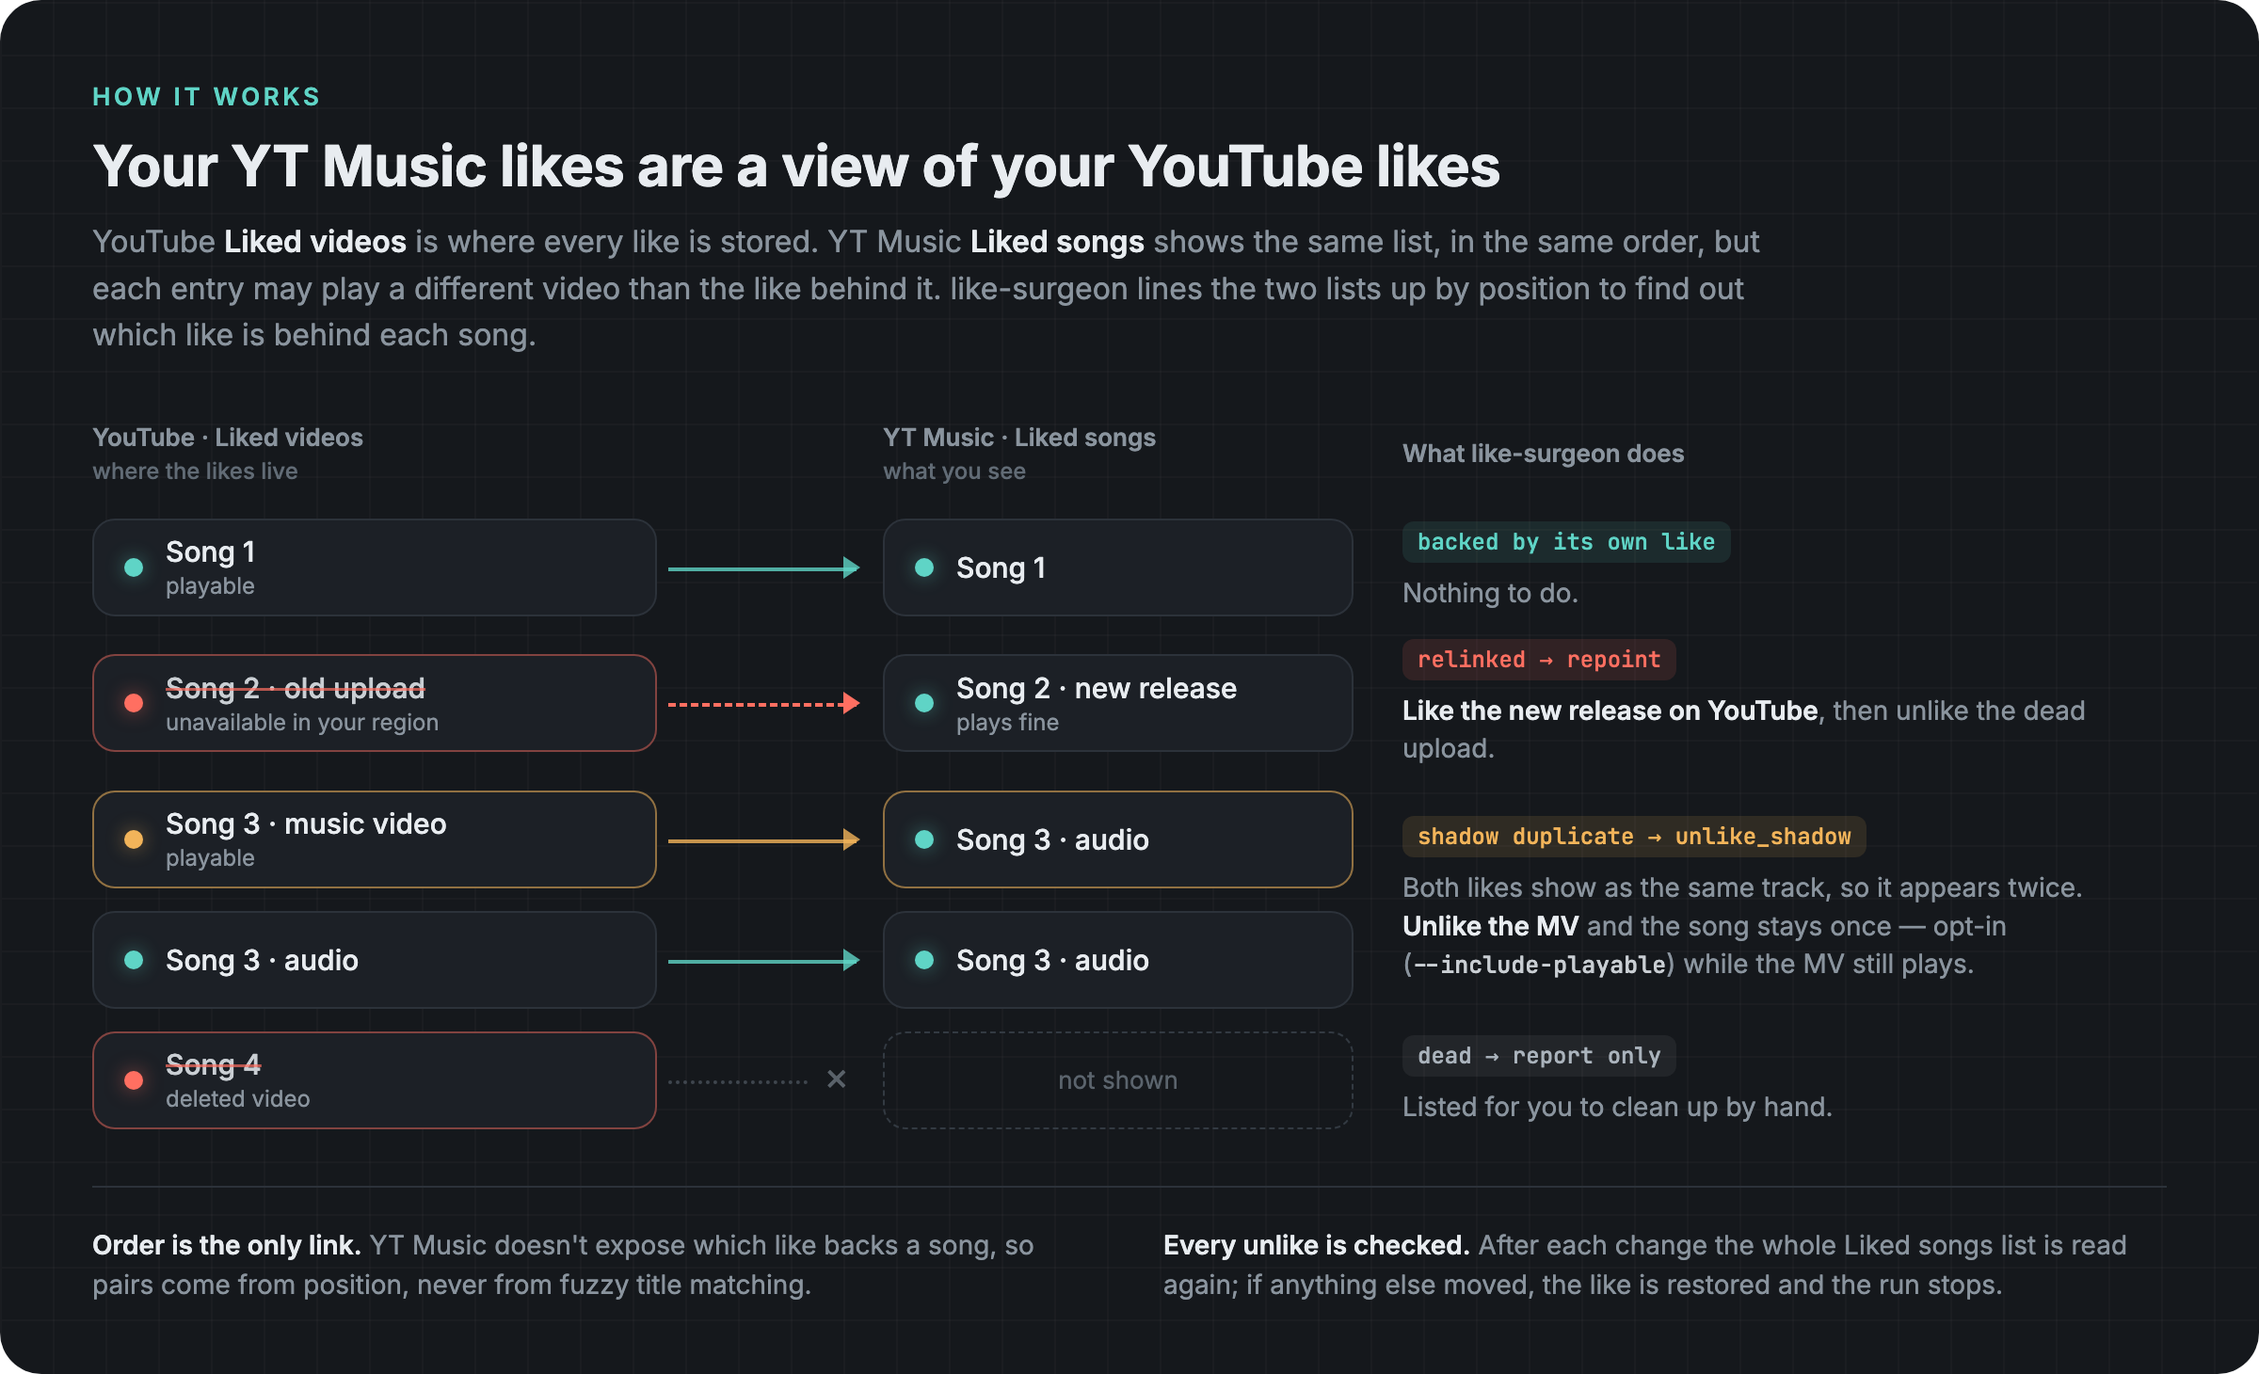
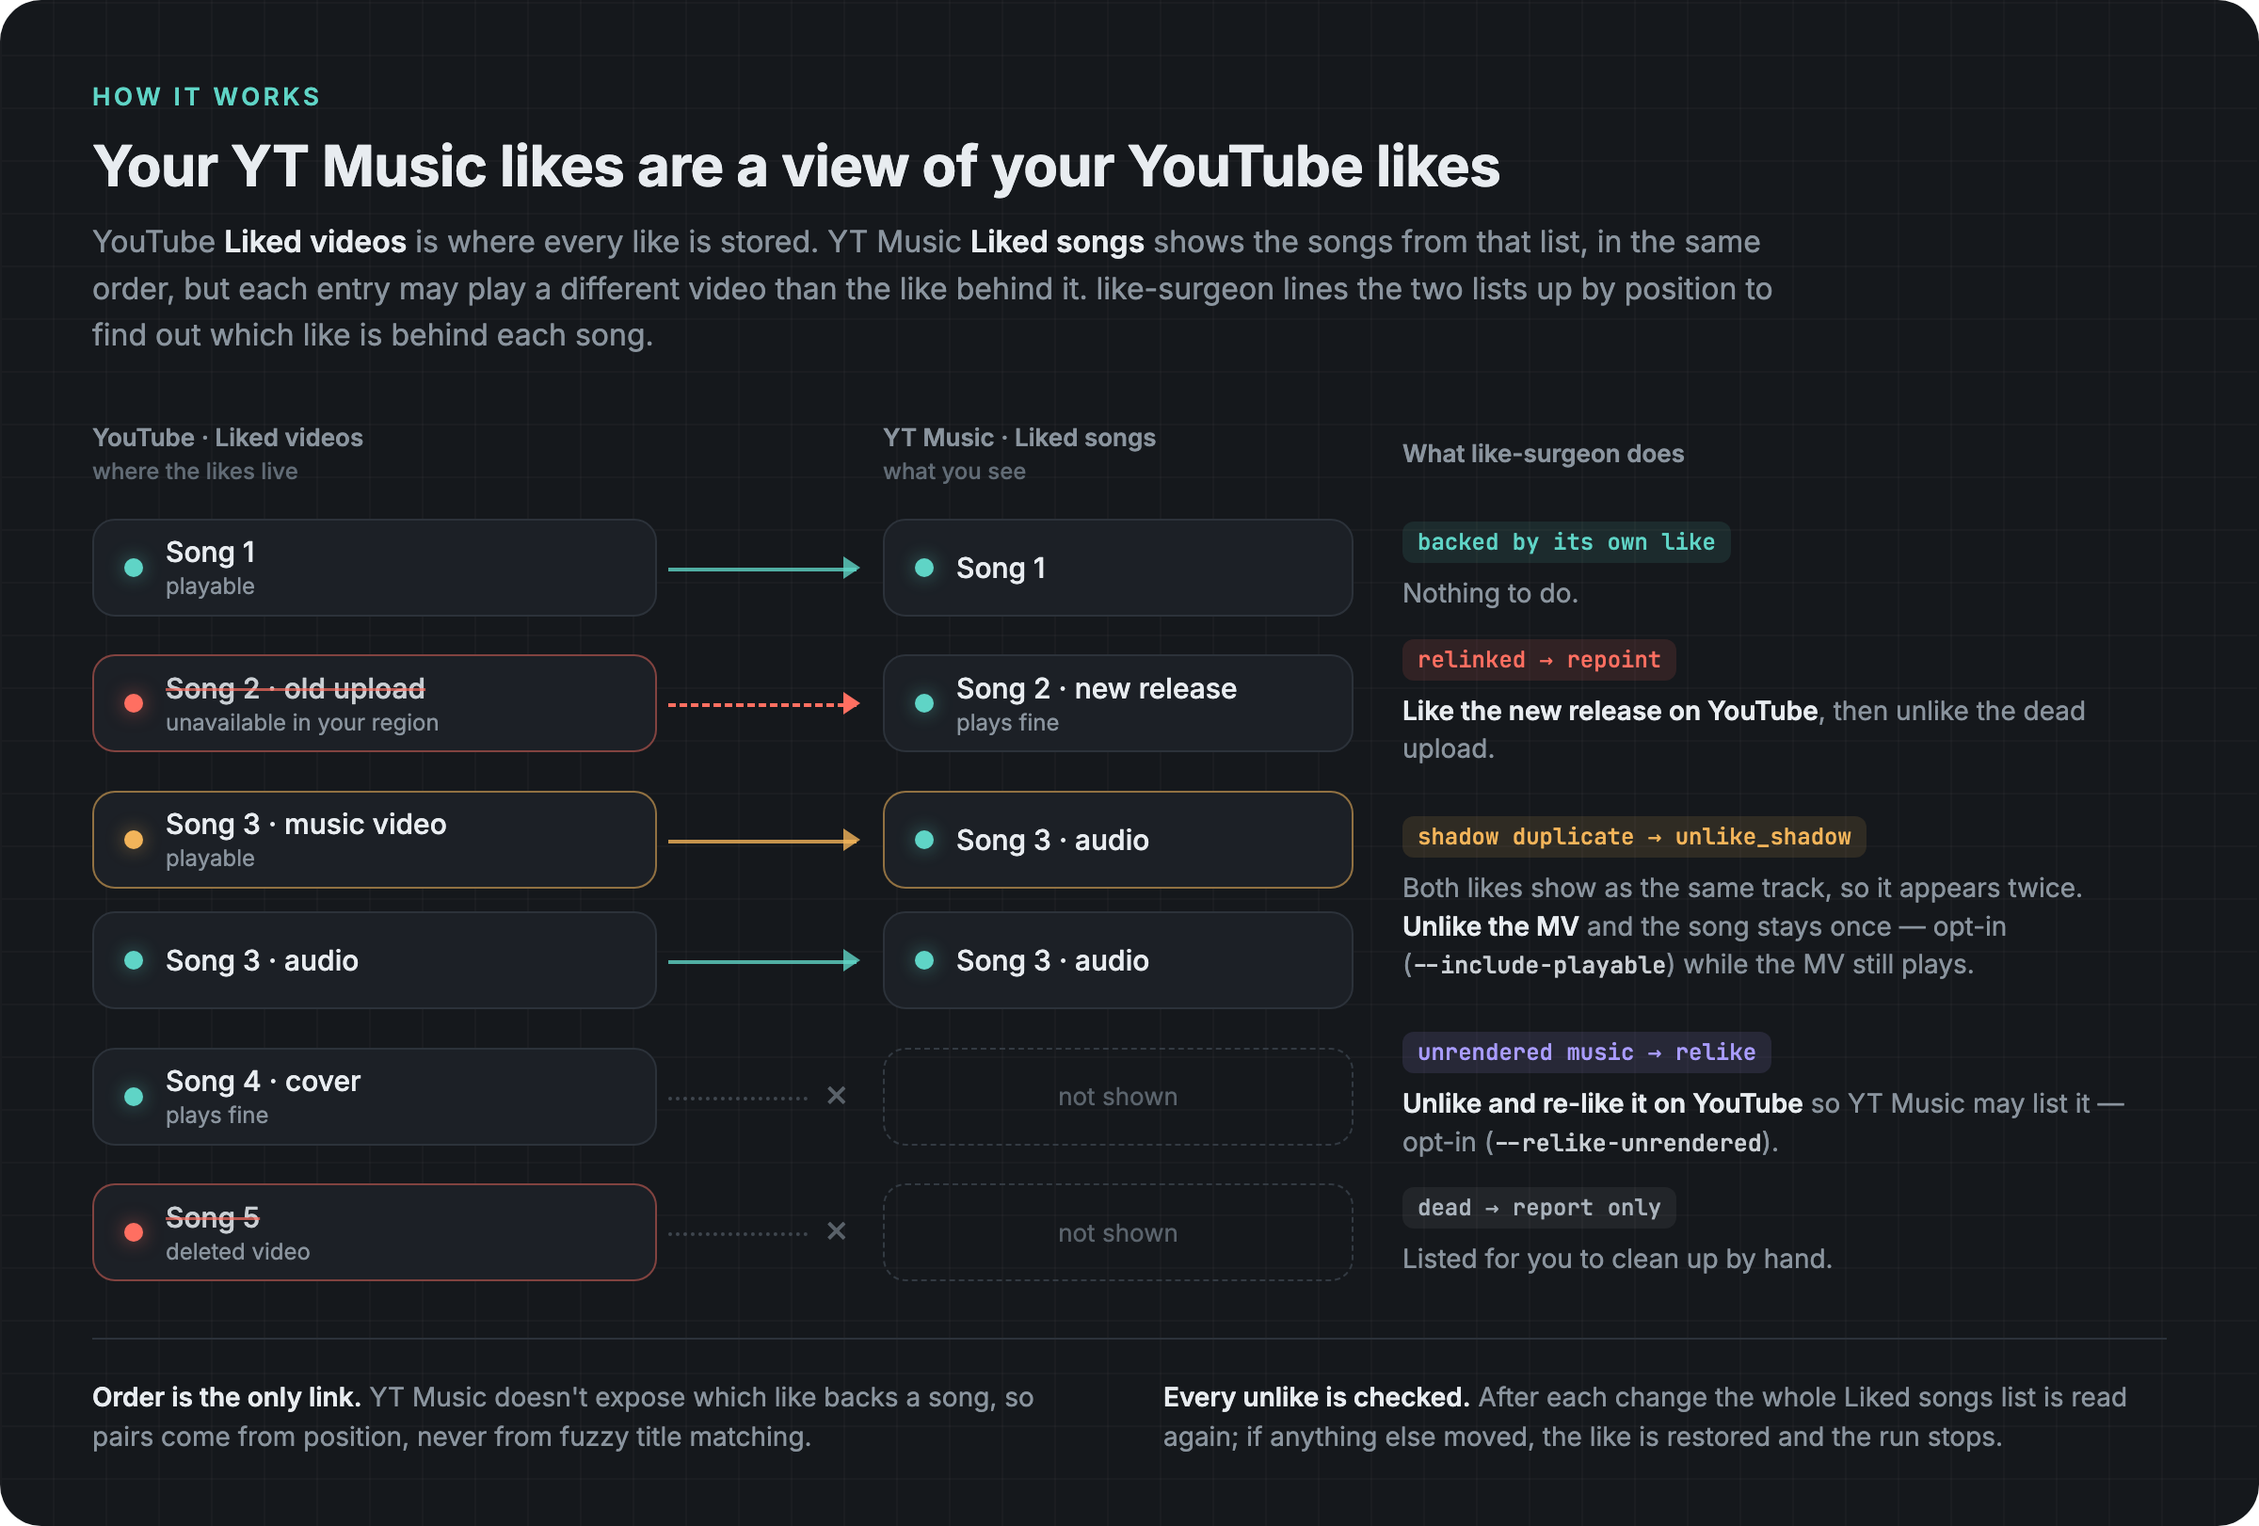
docs: lead with fixing YouTube / YT Music like mismatches
README opens with the mismatch the tool fixes; the Why section folds into
the intro and backup moves to a side note, so the How it works diagram
sits right under it. The diagram gains the opt-in relike row, the hero and
pyproject description match the new tagline, Safety notes relike as the
one non-pair write, and Back up and inspect moves after Sync. ARCHITECTURE:
the itemCount lookup costs 1 unit, not 2.

diff --git a/docs/assets/src/how-it-works.html b/docs/assets/src/how-it-works.html
@@ -61,6 +61,7 @@
   .tag.ok { color: var(--teal); background: rgba(95,212,198,.1); }
   .tag.fix { color: var(--coral); background: rgba(255,111,97,.12); }
   .tag.dup { color: var(--amber); background: rgba(242,180,90,.12); }
+  .tag.re { color: #a99cff; background: rgba(169,156,255,.12); }
   .tag.rep { color: #aab3bc; background: rgba(255,255,255,.06); }
   .note b { color: var(--text); font-weight: 600; }
   .note code { font: 500 12.5px "JetBrains Mono", ui-monospace, monospace; color: #c9ced3; white-space: nowrap; }
@@ -75,7 +76,7 @@
 <div class="card" id="card">
   <div class="eyebrow">How it works</div>
   <h1>Your YT Music likes are a view of your YouTube likes</h1>
-  <p class="lede">YouTube <b>Liked videos</b> is where every like is stored. YT Music <b>Liked songs</b> shows the same list, in the same order, but each entry may play a different video than the like behind it. like-surgeon lines the two lists up by position to find out which like is behind each song.</p>
+  <p class="lede">YouTube <b>Liked videos</b> is where every like is stored. YT Music <b>Liked songs</b> shows the songs from that list, in the same order, but each entry may play a different video than the like behind it. like-surgeon lines the two lists up by position to find out which like is behind each song.</p>
 
   <div class="grid">
     <div class="colhead">YouTube · Liked videos<span>where the likes live</span></div>
@@ -102,7 +103,12 @@
     <div class="wire"></div>
     <div class="item"><i class="dot"></i><div class="t">Song 3 · audio</div></div>
 
-    <div class="item dead"><i class="dot dead"></i><div><div class="t">Song 4</div><small>deleted video</small></div></div>
+    <div class="item"><i class="dot"></i><div class="t">Song 4 · cover<small>plays fine</small></div></div>
+    <div class="wire none"></div>
+    <div class="empty">not shown</div>
+    <div class="note"><span class="tag re">unrendered music → relike</span><br><b>Unlike and re-like it on YouTube</b> so YT Music may list it — opt-in (<code>--relike-unrendered</code>).</div>
+
+    <div class="item dead"><i class="dot dead"></i><div><div class="t">Song 5</div><small>deleted video</small></div></div>
     <div class="wire none"></div>
     <div class="empty">not shown</div>
     <div class="note"><span class="tag rep">dead → report only</span><br>Listed for you to clean up by hand.</div>

diff --git a/docs/assets/src/hero.html b/docs/assets/src/hero.html
@@ -34,9 +34,9 @@
 <body>
 <div class="hero">
   <div class="copy">
-    <div class="eyebrow">YouTube Music · liked songs</div>
+    <div class="eyebrow">YouTube Music ↔ YouTube likes</div>
     <h1><span class="like">like</span>-surgeon</h1>
-    <p class="tagline">Back up your liked songs, find <b>relinked</b>, <b>duplicate</b> and <b>dead</b> likes, and fix the ones it can prove.</p>
+    <p class="tagline">Fix the <b>mismatches</b> between your YouTube Music liked songs and YouTube likes — only the ones it can prove.</p>
     <div class="install"><span>$</span> uv tool install likesurgeon</div>
   </div>
 </div>

diff --git a/README.md b/README.md
@@ -1,5 +1,5 @@
 <p align="center">
-  <img src="https://raw.githubusercontent.com/zeikar/like-surgeon/main/docs/assets/hero.jpg" alt="like-surgeon: back up your YouTube Music liked songs, find relinked, duplicate and dead likes, and fix the ones it can prove" width="100%">
+  <img src="https://raw.githubusercontent.com/zeikar/like-surgeon/main/docs/assets/hero.jpg" alt="like-surgeon: fix the mismatches between your YouTube Music liked songs and YouTube likes, only the ones it can prove" width="100%">
 </p>
 
 <p align="center">
@@ -11,26 +11,19 @@
 
 # like-surgeon
 
-**Back up your YouTube Music liked songs, find relinked, duplicate and dead likes, and fix the ones it can prove.**
+**Fix the mismatches between your YouTube Music liked songs and YouTube likes — only the ones it can prove.**
 
-like-surgeon is a local-first command-line tool. It snapshots your YouTube Music *Liked songs* and your YouTube *Liked videos* into a SQLite file on your machine, works out which YouTube like is behind every song, and repairs the cases it can prove — with a check after every change. No server, no account of ours: your data and credentials stay on your computer.
+YouTube Music keeps no likes of its own: *Liked songs* is a view of your YouTube *Liked videos*, and over the years the two drift apart. A song gets swapped for another release while your like stays on the dead upload, the same song shows up twice, music you liked never appears, or a like is left on a deleted video. like-surgeon lines the two lists up, works out which YouTube like is behind every song, and fixes the mismatches it can prove — on YouTube, with a check after every change.
 
-## Why
-
-Use YouTube Music for a few years and your Liked songs drifts:
-
-- **Songs YT Music swapped behind your back.** The upload you liked was pulled or blocked in your region, so YT Music now plays a different release of the song — but your YouTube likes still hold the old, dead video.
-- **The same song twice.** You liked the official music video *and* the audio track; YT Music shows both as the same track.
-- **Songs that are just gone.** A deleted or region-blocked video stays in your likes, invisible in YT Music.
-- **No backup.** YouTube Music has no in-app export for your likes, and titles change over time.
+It's a command-line tool that runs on your machine. Each scan of both lists is kept as a snapshot in a local SQLite file, which doubles as the backup YouTube Music doesn't offer. No server, no account of ours: your data and credentials stay on your computer.
 
 ## How it works
 
 <p align="center">
-  <img src="https://raw.githubusercontent.com/zeikar/like-surgeon/main/docs/assets/how-it-works.png" alt="Diagram: YouTube Liked videos on the left, YT Music Liked songs on the right, lined up by position. A dead upload shown as a new release is re-pointed, a music video shown as a duplicate audio track can be unliked (opt-in while it still plays), and a deleted video is reported." width="100%">
+  <img src="https://raw.githubusercontent.com/zeikar/like-surgeon/main/docs/assets/how-it-works.png" alt="Diagram: YouTube Liked videos on the left, YT Music Liked songs on the right, lined up by position. A dead upload shown as a new release is re-pointed, a music video shown as a duplicate audio track can be unliked (opt-in while it still plays), a cover YT Music doesn't show can be re-liked (opt-in), and a deleted video is reported." width="100%">
 </p>
 
-Your YouTube **Liked videos** list is the only place likes are stored. YT Music **Liked songs** is a view of it — same order, filtered to what YT Music shows, and each entry may play a different video than the like behind it. YT Music never says which like backs which song, so like-surgeon lines the two lists up by position (no fuzzy title matching) and repairs the mismatches it can prove, on YouTube. The full model and the evidence for it: [docs/design/ll-lm-alignment.md](https://github.com/zeikar/like-surgeon/blob/main/docs/design/ll-lm-alignment.md). (The docs call the two lists **LL** and **LM**, after their playlist ids.)
+Liked songs keeps the order of Liked videos, filtered to what YT Music shows, and each entry may play a different video than the like behind it. YT Music never says which like backs which song, so like-surgeon lines the two lists up by position (no fuzzy title matching) and repairs the mismatches it can prove, on YouTube. The full model and the evidence for it: [docs/design/ll-lm-alignment.md](https://github.com/zeikar/like-surgeon/blob/main/docs/design/ll-lm-alignment.md). (The docs call the two lists **LL** and **LM**, after their playlist ids.)
 
 ## Quick start
 
@@ -70,7 +63,7 @@ Just want a backup? `auth ytmusic`, `scan ytmusic` and `export` are enough — n
 ## Safety
 
 - **Read-only until you say so.** Only `sync` writes, after showing the plan and a y/N prompt; `--dry-run` writes nothing, `--limit N` ramps up, `skip <id>` keeps a finding out for good.
-- **Only proven pairs.** A pair is acted on only when its gap in the alignment is one-to-one and A's availability is known; repoints also need the same recording (duration within ±3 s and same channel or overlapping titles).
+- **Only proven pairs.** A pair is acted on only when its gap in the alignment is one-to-one and A's availability is known; repoints also need the same recording (duration within ±3 s and same channel or overlapping titles). The one exception is opt-in: `--relike-unrendered` re-likes a single video that looks like music but isn't shown in YT Music, then checks that Liked songs gained at most that one entry.
 - **Every unlike is checked.** After each change `sync` confirms the rating and re-reads your whole Liked songs list. If anything else moved, A is re-liked and the run stops.
 - **Writes only on YouTube.** YT Music's own like button is never pressed: it shares the same rating, and pressing it duplicates or reverts entries.
 - **Local credentials.** Cookies and OAuth tokens stay in `~/.like-surgeon/`; the files the tool writes are owner-only (`0600`) on macOS and Linux.
@@ -132,18 +125,7 @@ Scans always fetch the full list; aligning a truncated list would be meaningless
 
 > **Cookie staleness.** YT Music cookies extracted from Chrome can go stale within about an hour. If `scan ytmusic` reports a logged-out response, re-run `auth ytmusic --from-browser chrome` and scan again right away.
 
-### 4. Inspect and back up
-
-```bash
-likesurgeon snapshots
-likesurgeon diff <old_snapshot_id> <new_snapshot_id>
-likesurgeon export <snapshot_id> --format json --output likes.json
-likesurgeon doctor
-```
-
-`doctor` summarizes both sources: counts, the latest diagnosis, and how many YT Music songs are traced to the like behind them.
-
-### 5. Compare
+### 4. Compare
 
 ```bash
 likesurgeon compare-likes
@@ -160,7 +142,7 @@ A pair (A shown as B) is **write-eligible** only at confidence 1.0: A's availabi
 
 `dead_unrendered` findings are yours to clean up by hand. A region block can lift, so unlike a blocked video only once you have liked a replacement. A **deleted** video can't be unliked through the YouTube Data API (`videos.rate` returns 404), but YT Music's rating call still removes the like — ytmusicapi `rate_song(videoId, "INDIFFERENT")`; check with `videos.getRating`, which still reads deleted videos. The video isn't shown in YT Music, so no other entry depends on it.
 
-### 6. Sync (write actions)
+### 5. Sync (write actions)
 
 `sync` applies the latest diagnosis's write-eligible findings, on YouTube only. It prints the plan and a quota estimate, warns if the diagnosis looks stale (a newer scan exists, or a scan it used is over an hour old), names any video an earlier run may have left unliked, then asks before writing.
 
@@ -212,6 +194,17 @@ Sync stops early when:
 - YouTube's daily quota runs out.
 
 The run exits non-zero if any action failed or it stopped early on an unreadable Liked songs list, after a restore, after an unconfirmed B undo, or after a `relike` went wrong.
+
+### 6. Back up and inspect
+
+```bash
+likesurgeon snapshots
+likesurgeon diff <old_snapshot_id> <new_snapshot_id>
+likesurgeon export <snapshot_id> --format json --output likes.json
+likesurgeon doctor
+```
+
+`doctor` summarizes both sources: counts, the latest diagnosis, and how many YT Music songs are traced to the like behind them.
 
 ## Caveats
 

diff --git a/docs/ARCHITECTURE.md b/docs/ARCHITECTURE.md
@@ -34,7 +34,7 @@ Two providers feed into one local SQLite database. Every snapshot is point-in-ti
 ## Data flow
 
 1. **Auth** — `auth ytmusic` writes `browser.json` from a logged-in browser cookie store. `auth youtube` runs the OAuth Desktop-app consent flow and persists `youtube-token.json`.
-2. **Scan** — `scan ytmusic` / `scan youtube-likes` fetch the user's likes, translate provider dicts via per-source translators in [src/likesurgeon/snapshot.py](../src/likesurgeon/snapshot.py), upsert `Track` rows (deduplicated by `(source, dedupe_key)`), and write a fresh `Snapshot` plus N `SnapshotItem` rows. Each snapshot is independent — old ones are never mutated. `scan youtube-likes` then calls `YouTubeClient.fetch_likes_item_count()` (2 quota units) and warns when the playlist's `itemCount` exceeds the items scanned ([notes/hidden-likes.md](notes/hidden-likes.md)); a failed lookup only warns.
+2. **Scan** — `scan ytmusic` / `scan youtube-likes` fetch the user's likes, translate provider dicts via per-source translators in [src/likesurgeon/snapshot.py](../src/likesurgeon/snapshot.py), upsert `Track` rows (deduplicated by `(source, dedupe_key)`), and write a fresh `Snapshot` plus N `SnapshotItem` rows. Each snapshot is independent — old ones are never mutated. `scan youtube-likes` then calls `YouTubeClient.fetch_likes_item_count()` (1 quota unit: the playlist id resolved for the scan is reused) and warns when the playlist's `itemCount` exceeds the items scanned ([notes/hidden-likes.md](notes/hidden-likes.md)); a failed lookup only warns.
 3. **Compare** — `compare-likes` loads the latest snapshot from each source, aligns them ([`align.py`](../src/likesurgeon/align.py): LIS anchors on LM entries whose `videoId` is in LL, then in-order pairing of the gaps), fetches `videos.list` metadata for the pairs for the same-recording check, and persists the run as a `Diagnosis` plus per-finding `DiagnosisItem` rows ([`pipeline.py`](../src/likesurgeon/pipeline.py)). It also warns when one of our own `sync` attempts ran after the older scan, and carries `'skipped'` statuses forward.
 4. **Inspect** — `issues`, `doctor`, `diff`, and `export` all read from local DB only. No outbound network.
 5. **Sync** — `sync` refuses if a sync attempt happened after the older scan, plans actions from the latest diagnosis (pure `sync.plan`; read-only `sync_preflight` checks), then `sync_dispatch.execute` writes to YouTube (repoint / unlike_shadow, and with `--relike-unrendered` `relike`: unlike and re-like an unrendered A, oldest first), reads the whole LM after each unlike, restores A on a mismatch (a relike instead stops the run), and records one `SyncAttempt` per call/check, committed immediately.
